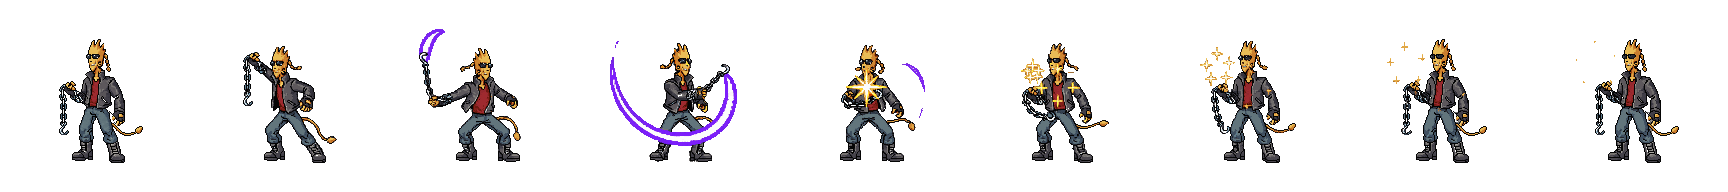
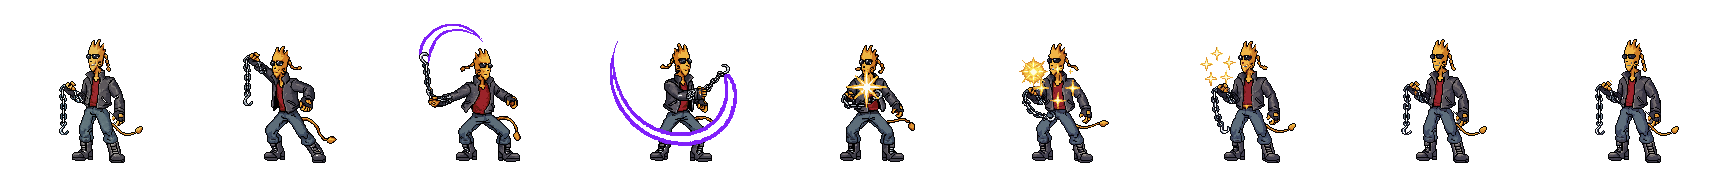
Polish Andromoss victory and casting with PixelLab

diff --git a/specs/characters.md b/specs/characters.md
@@ -149,3 +149,5 @@ The user approved base-v5 on 2026-11-18, then selected **Andromoss** as his fina
 Native 192×192 sheets are installed: subtle idle (5 frames, 3 fps), expressive victory (9 frames, 8 fps), and one shared casting clip (9 frames, 9 fps plus 500 ms hold), with a requested violet hook trail and small gold sparks. A static 192×192 icon is installed for HUD/pause/round results. These new outputs await user visual review; file/playback checks do not establish visual quality. Exact prompts remain in `public/assets/characters/andromoss/provenance.json` and `icon-provenance.json`. Spell-effect artwork remains deferred.
 
 The user approved Andromoss’s idle, victory, casting and icon. A targeted white-speck cleanup replaces 162 victory pixels and 178 casting pixels using free PixelLab exact patch operations; alpha, first frames, colored pixels, timing and all other pixels are unchanged. These counts describe technical changes, not a visual quality judgment. Cleanup previews await user review. Exact patches and before/after hashes are preserved in `cleanup-provenance.json`; the original generation record is `provenance-before-cleanup.json`.
+
+The user requested broader cleanup after the exact-pixel pass still looked messy (D82). PixelLab `edit_animation` now polishes victory/casting frames 1–8 in four batches at native 192×192, with identical prompt/seed and a requested 48-color limit. Brief: coherent flat clusters, clean outlines, fewer white specks/noisy highlights, preserve existing poses/alien identity and violet/gold effects. Starting frame 0, nine-frame counts and timing remain unchanged; idle/icon are unchanged. Cost: 100 subscription generations. Full source mappings, prompt, jobs and hashes: `polish-provenance.json`; pre-edit record: `provenance-before-polish.json`. Visual fidelity and quality await user review.

diff --git a/specs/decisions.md b/specs/decisions.md
@@ -125,6 +125,8 @@ This file records the discussion's current state. An accepted concept is not a c
 
 | D81 | User approved all Andromoss animations/icon and requests cleanup of white dead pixels in victory and casting only. Preserve motion, timing, silhouette, transparency and colored magic; use exact PixelLab pixel operations rather than regenerating the character. User-only visual review remains in force. |
 
+| D82 | User finds the exact white-pixel repair improved but still messy and authorizes a broader PixelLab edit_animation cleanup of Andromoss victory/casting: simplify noisy shading/highlights into broad coherent clusters and clean outlines while requesting unchanged poses, adult alien identity and violet/gold magic. Use four-frame batches with identical prompt/seed, retain native 192×192 layout, original starting frame and existing timing. Visual review stays with the user; preserve earlier files/records for comparison. |
+
 ## Current proposals, not yet confirmed
 
 - Initial implementation pair: **Sir Champignon and Andy**, following the recommendation and authorization to start; these are the current prototype defaults.
